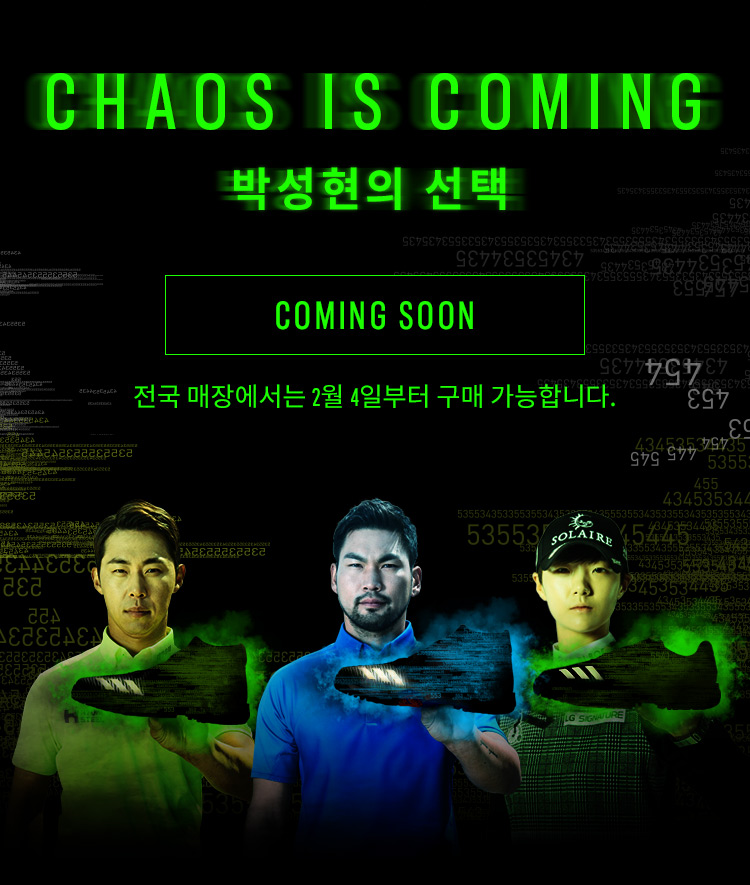
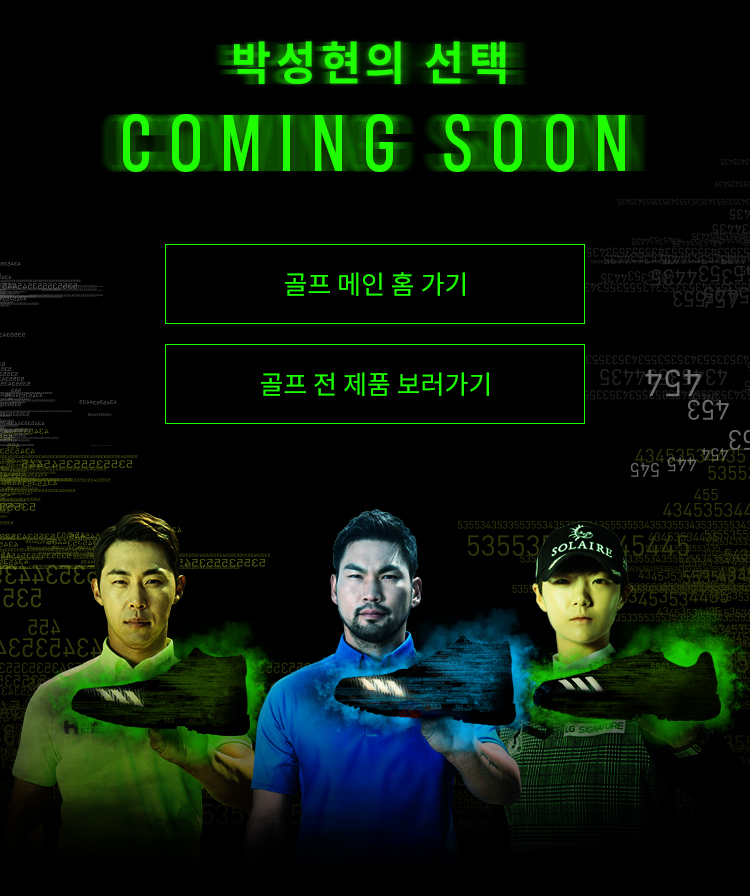
golf chaos TS

diff --git a/mobile/html/adidas/2020/event/golf/chaos/TS/build/index.html b/mobile/html/adidas/2020/event/golf/chaos/TS/build/index.html
@@ -438,7 +438,7 @@
 		</div>
 
 		<div id="container">
-<style type="text/css">@media screen and (max-width: 320px){html{font-size:10px}}@media screen and (min-width: 800px){html{font-size:12px}}.pseudo-element{content:'';display:block}#chaos{position:relative}#chaos .main_visual{position:relative}#chaos .main_visual>img{display:block;width:100%}#chaos .video{margin-bottom:-1%}#chaos .video video{width:100%}#chaos .count{position:relative;background-color:#000}#chaos .count .counter .num{width:20%;text-align:center;color:#1dff00;font:bold 4rem 'AdihausDIN-Cond';z-index:99}#chaos .count .counter .num1{position:absolute;bottom:22%;left:7%}#chaos .count .counter .num2{position:absolute;bottom:22%;left:28.8%}#chaos .count .counter .num3{position:absolute;bottom:22%;left:50.5%}#chaos .count .counter .num4{position:absolute;bottom:22%;left:72.4%}#chaos .count .bg>img{width:100%;display:block}#chaos .bottom{position:relative}#chaos .bottom .bg>img{width:100%;display:block}
+<style type="text/css">@media screen and (max-width: 320px){html{font-size:10px}}@media screen and (min-width: 800px){html{font-size:12px}}.pseudo-element{content:'';display:block}#chaos{position:relative}#chaos .main_visual{position:relative}#chaos .main_visual>img{display:block;width:100%}#chaos .video{margin-bottom:-1%}#chaos .video video{width:100%}#chaos .count{position:relative;background-color:#000}#chaos .count .counter .num{width:20%;text-align:center;color:#1dff00;font:bold 4rem 'AdihausDIN-Cond';z-index:99}#chaos .count .counter .num1{position:absolute;bottom:22%;left:7%}#chaos .count .counter .num2{position:absolute;bottom:22%;left:28.8%}#chaos .count .counter .num3{position:absolute;bottom:22%;left:50.5%}#chaos .count .counter .num4{position:absolute;bottom:22%;left:72.4%}#chaos .count .bg>img{width:100%;display:block}#chaos .bottom{position:relative}#chaos .bottom .bg>img{width:100%;display:block}#chaos .bottom .btn_golfmain{display:inline-block;width:56%;height:9%;position:absolute;top:27%;left:22%;text-indent:-9999px}#chaos .bottom .btn_golfprod{display:inline-block;width:56%;height:9%;position:absolute;top:38.5%;left:22%;text-indent:-9999px}
 </style>
 
 			<div id="chaos">
@@ -448,7 +448,7 @@
                 </div>
 
 				<div class="video">
-					<video id="video" poster="/images/adidas/2019/event/adicolor/0712/bg_sect.jpg" loop muted autoplay playsinline>
+					<video id="video" poster="/images/adidas/2020/event/golf/chaos/ts/video_bg.jpg" loop muted autoplay playsinline>
 						<source src="http://imagem.adidas.co.kr/upload/design_temp/video/2020/a/golf/chaos/TEASER_10_LORES_PP.mp4" type="video/mp4">
 					</video>
 				</div>
@@ -466,6 +466,8 @@
 				</div>
 
 				<div class="bottom">
+					<a class="btn_golfmain" href="https://m.adidas.co.kr/MO/Main/sportsSubMain.action?brand_cd=11" campaign-label="골프 메인 홈 가기">골프 메인 홈 가기</a>
+					<a class="btn_golfprod" href="https://m.adidas.co.kr/MO/Product/sportsPrdList.action?NFN_ST=Y&brand_cd=11&ctgr_gb=001&INFLW_TC_CD=&ctgr_chk=&term=1#NFN_ST=Y&brand_cd=11&ctgr_gb=001&term=1&sQuick=N&strPage=1" campaign-label="골프 전 제품 보러가기">골프 전 제품 보러가기</a>
 					<div class="bg">
 						<img src="/images/adidas/2020/event/golf/chaos/ts/bottom_img.jpg" alt="">
 					</div>

diff --git a/mobile/html/adidas/2020/event/golf/chaos/TS/index.html b/mobile/html/adidas/2020/event/golf/chaos/TS/index.html
@@ -446,7 +446,7 @@
                 </div>
 
 				<div class="video">
-					<video id="video" poster="/images/adidas/2019/event/adicolor/0712/bg_sect.jpg" loop muted autoplay playsinline>
+					<video id="video" poster="/images/adidas/2020/event/golf/chaos/ts/video_bg.jpg" loop muted autoplay playsinline>
 						<source src="http://imagem.adidas.co.kr/upload/design_temp/video/2020/a/golf/chaos/TEASER_10_LORES_PP.mp4" type="video/mp4">
 					</video>
 				</div>
@@ -464,6 +464,8 @@
 				</div>
 
 				<div class="bottom">
+					<a class="btn_golfmain" href="https://m.adidas.co.kr/MO/Main/sportsSubMain.action?brand_cd=11" campaign-label="골프 메인 홈 가기">골프 메인 홈 가기</a>
+					<a class="btn_golfprod" href="https://m.adidas.co.kr/MO/Product/sportsPrdList.action?NFN_ST=Y&brand_cd=11&ctgr_gb=001&INFLW_TC_CD=&ctgr_chk=&term=1#NFN_ST=Y&brand_cd=11&ctgr_gb=001&term=1&sQuick=N&strPage=1" campaign-label="골프 전 제품 보러가기">골프 전 제품 보러가기</a>
 					<div class="bg">
 						<img src="/images/adidas/2020/event/golf/chaos/ts/bottom_img.jpg" alt="">
 					</div>

diff --git a/mobile/html/adidas/2020/event/golf/chaos/TS/index.scss b/mobile/html/adidas/2020/event/golf/chaos/TS/index.scss
@@ -65,5 +65,23 @@
 				display: block;
 			}
 		}
+		.btn_golfmain{
+			display: inline-block;
+			width: 56%;
+			height: 9%;
+			position: absolute;
+			top: 27%;
+			left: 22%;
+			text-indent: -9999px;
+		}
+		.btn_golfprod{
+			display: inline-block;
+			width: 56%;
+			height: 9%;
+			position: absolute;
+			top: 38.5%;
+			left: 22%;
+			text-indent: -9999px;
+		}
 	}
 }
